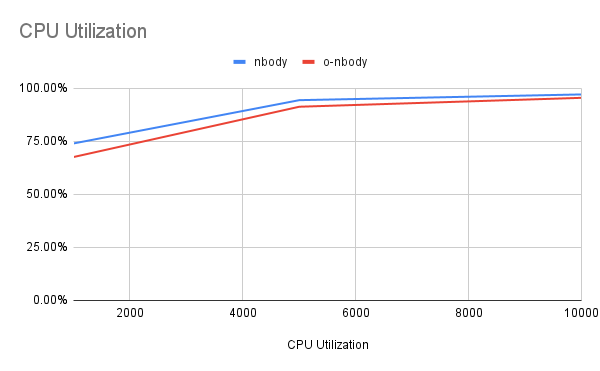
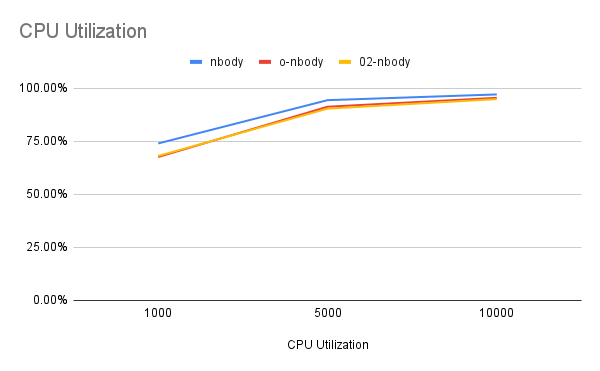
Added more information to performance.md

diff --git a/src/bodies.cpp b/src/bodies.cpp
@@ -71,6 +71,9 @@ void Bodies::updateVel(int n, double dt)
     vz[n] += 0.5 *( old_az[n] + az[n] ) * dt;
 }
 
+// an update over updateAcc that exploits the symmetry of the force calculation to reduce
+// the amount of arithmetic done
+
 void Bodies::updateAcc2(int n, double dt)
 {
 
@@ -103,6 +106,48 @@ void Bodies::updateAcc2(int n, double dt)
             ay[j] -= s_i * dy;
             az[j] -= s_i * dz;
         }
+    }
+}
+
+void Bodies::updateAcc3(int n, double dt) {
+    for(int i = 0; i < n; ++i){
+
+        double xi = x[i];
+        double yi = y[i];
+        double zi = z[i];
+
+        double mass_i = mass[i];
+
+        double aix = 0.0;
+        double aiy = 0.0;
+        double aiz = 0.0;
+
+        for(int j = i+1; j < n; ++j ){
+            double dx = x[j] - xi;
+            double dy = y[j] - yi;
+            double dz = z[j] - zi;
+
+            double r2 = dx*dx + dy*dy + dz*dz + eps2;
+            double inv_r = 1.0 / std::sqrt(r2);
+
+            double inv_r3 = inv_r * inv_r * inv_r;
+
+            double s_i = mass_i * inv_r3;
+            double s_j = mass[j] * inv_r3;
+
+            aix += s_j * dx;
+            aiy += s_j * dy;
+            aiz += s_j * dz;
+            
+            ax[j] -= s_i * dx;
+            ay[j] -= s_i * dy;
+            az[j] -= s_i * dz;
+        }
+        
+        // single write per i
+        ax[i] += aix;
+        ay[i] += aiy;
+        az[i] += aiz;
     }
 }
 
@@ -278,7 +323,7 @@ void Bodies::plummerInitializer(int n, double map_size, double dt, double q, dou
         vz[i] -= vz_avg;
     }
 
-    updateAcc2(n, dt);
+    updateAcc3(n, dt);
 }
 
 void Bodies::sphereInitializer(int n, double map_size, double dt, double q, double v0)

diff --git a/src/main.cpp b/src/main.cpp
@@ -52,7 +52,7 @@ void run_simulation(SimulationConfig config, std::vector<Snapshot>& snapshots){
         std::fill(b.ay.begin(), b.ay.end(), 0.0);
         std::fill(b.az.begin(), b.az.end(), 0.0);
 
-        b.updateAcc2(config.numParticles, dt);
+        b.updateAcc3(config.numParticles, dt);
 
         for(int i = 0; i < config.numParticles; i++){
             b.updateVel(i, dt);

diff --git a/src/bodies.h b/src/bodies.h
@@ -22,6 +22,7 @@ class Bodies
         void updateVel(int n, double dt);
 
         void updateAcc2(int n, double dt);
+        void updateAcc3(int n, double dt);
 
         void updateAccBH(int n, double dt, double map_size);
 

diff --git a/performance.md b/performance.md
@@ -186,7 +186,7 @@ Test 3: `nbody -n 10000 -i 2000`
        0.874018000 seconds sys
  -->
 
-## Naive implementation w/ Optimized force calculation
+## Naive implementation w/ Optimized force calculation (o-nbody)
 
 Brute force implementation, exploiting the symmetry in the force calculation:
 
@@ -340,13 +340,162 @@ Test 3: `nbody -n 10000 -i 2000`
 
 -->
 
+## Naive implementation w/ Optimized force calculation and less memory writes (02-nbody)
+
+Optimization to improve memory locality
+
+Test 1: `nbody -n 1000 -i 2000`
+- seconds elapsed: 5.301
+- seconds user: 3.511
+- seconds sys: 0.097
+- 97.63% in `updateAcc3`
+
+| Name                    | Measurement   |
+|-------------------------|---------------|
+| task-clock              | 3,608,965,156    (0.681 CPU utilized) |
+| context-switches        | 64           |
+| cpu-migrations          | 13       |
+| page-faults             | 40,185      |
+| instructions            | 37,820,728,665    |
+| cycles                  | 17,884,445,932  |
+| stalled-cycles-frontend | 306,070,798 (1.71%)   |
+| branches                | 2,128,289,515 |
+| branch-misses           | 12,918,480  (0.61%)  |
+| L1-dcache-loads         | 14,360,191,797  |
+| L1-dcache-load-misses   | 612,369,117 (4.26%)     |
+
+2.11 insn per cycle
+
+<!-- 
+ Performance counter stats for './nbody -n 1000 -i 2000 -l plummer':
+
+     3,608,965,156      task-clock                       #    0.681 CPUs utilized             
+                64      context-switches                 #   17.734 /sec                      
+                13      cpu-migrations                   #    3.602 /sec                      
+            40,185      page-faults                      #   11.135 K/sec                     
+    37,820,728,665      instructions                     #    2.11  insn per cycle            
+                                                  #    0.01  stalled cycles per insn     (71.39%)
+    17,884,445,932      cycles                           #    4.956 GHz                         (71.36%)
+       306,070,798      stalled-cycles-frontend          #    1.71% frontend cycles idle        (71.43%)
+     2,128,289,515      branches                         #  589.723 M/sec                       (71.48%)
+        12,918,480      branch-misses                    #    0.61% of all branches             (71.46%)
+    14,360,191,797      L1-dcache-loads                  #    3.979 G/sec                       (71.44%)
+       612,369,117      L1-dcache-load-misses            #    4.26% of all L1-dcache accesses   (71.43%)
+
+       5.300972542 seconds time elapsed
+
+       3.511560000 seconds user
+       0.097857000 seconds sys
+
+-->
+
+Test 2: `nbody -n 5000 -i 2000`
+- seconds elapsed: 96.298
+- seconds user: 86.652
+- seconds sys: 0.433
+- 99.02% in `updateAcc3`
+
+| Name                    | Measurement   |
+|-------------------------|---------------|
+| task-clock              | 87,086,947,765   (0.904 CPU utilized) |
+| context-switches        | 1,257           |
+| cpu-migrations          | 287       |
+| page-faults             | 261,777     |
+| instructions            | 930,314,182,054   |
+| cycles                  | 436,593,930,682 |
+| stalled-cycles-frontend | 2,396,424,250 (0.55%)   |
+| branches                | 50,839,152,080 |
+| branch-misses           | 88,912,727   (0.17%)  |
+| L1-dcache-loads         | 352,515,995,818 |
+| L1-dcache-load-misses   | 22,090,166,749  (6.27%)     |
+
+2.13 insn per cycle
+
+<!-- 
+ Performance counter stats for './nbody -n 5000 -i 2000 -l plummer':
+
+    87,086,947,765      task-clock                       #    0.904 CPUs utilized             
+             1,257      context-switches                 #   14.434 /sec                      
+               287      cpu-migrations                   #    3.296 /sec                      
+           261,777      page-faults                      #    3.006 K/sec                     
+   930,314,182,054      instructions                     #    2.13  insn per cycle            
+                                                  #    0.00  stalled cycles per insn     (71.43%)
+   436,593,930,682      cycles                           #    5.013 GHz                         (71.43%)
+     2,396,424,250      stalled-cycles-frontend          #    0.55% frontend cycles idle        (71.43%)
+    50,839,152,080      branches                         #  583.775 M/sec                       (71.43%)
+        88,912,727      branch-misses                    #    0.17% of all branches             (71.43%)
+   352,515,995,818      L1-dcache-loads                  #    4.048 G/sec                       (71.42%)
+    22,090,166,749      L1-dcache-load-misses            #    6.27% of all L1-dcache accesses   (71.43%)
+
+      96.298073158 seconds time elapsed
+
+      86.652458000 seconds user
+       0.433855000 seconds sys
+ -->
+
+Test 3: `nbody -n 10000 -i 2000`
+- seconds elapsed: 365.180
+- seconds user: 345.593
+- seconds sys: 0.869
+- 99.40% in `updateAcc3`
+
+| Name                    | Measurement   |
+|-------------------------|---------------|
+| task-clock              | 346,467,229,874    (0.949 CPU utilized) |
+| context-switches        | 4,816           |
+| cpu-migrations          | 1,101       |
+| page-faults             | 523,399     |
+| instructions            | 3,714,796,762,225   |
+| cycles                  | 1,739,149,617,873  |
+| stalled-cycles-frontend | 7,153,172,588 (0.41%)   |
+| branches                | 202,311,458,920|
+| branch-misses           | 248,027,993    (0.12%)  |
+| L1-dcache-loads         | 1,406,596,023,341 |
+| L1-dcache-load-misses   | 88,457,000,521 (6.29%)     |
+
+2.14 insn per cycle
+
+
+<!--  1,706,713,424,896 / 1,406,596,023,341 vs 88,829,809,900  / 88,457,000,521 -->
+<!-- 
+ Performance counter stats for './nbody -n 10000 -i 2000 -l plummer':
+
+   346,467,229,874      task-clock                       #    0.949 CPUs utilized             
+             4,816      context-switches                 #   13.900 /sec                      
+             1,101      cpu-migrations                   #    3.178 /sec                      
+           523,399      page-faults                      #    1.511 K/sec                     
+ 3,714,796,762,225      instructions                     #    2.14  insn per cycle            
+                                                  #    0.00  stalled cycles per insn     (71.43%)
+ 1,739,149,617,873      cycles                           #    5.020 GHz                         (71.43%)
+     7,153,172,588      stalled-cycles-frontend          #    0.41% frontend cycles idle        (71.43%)
+   202,311,458,920      branches                         #  583.927 M/sec                       (71.43%)
+       248,027,993      branch-misses                    #    0.12% of all branches             (71.43%)
+ 1,406,596,023,341      L1-dcache-loads                  #    4.060 G/sec                       (71.43%)
+    88,457,000,521      L1-dcache-load-misses            #    6.29% of all L1-dcache accesses   (71.43%)
+
+     365.180530198 seconds time elapsed
+
+     345.593602000 seconds user
+       0.869071000 seconds sys
+-->
+
 ## Barnes-Hut Implementation
+
 
 
 # Aggregation
 
-![](./performance_info/CPU%20Utilization.png)
+Comparing between the base n-body simulation and with the optimized force calculation. The Instructions are reduced, from 6,268,130,645 to 4,031,250,441 at 1000 particles. The number of instructions increases at the same rate meaning that the optimized calculation results in fewer instructions.
+
+However, the downside of this optimization method is that it increases the percentage of stalled cycles, branch misses, and L1 cache misses. The decrease in instructions offsets this difference and leads to improved performance. This leads to an improvement in performance, where the performance improvement factor increases with number of particles. 
+
+This increase in stalled cycles, branch misses, and L1 cache misses is a result of more scattered writes, more complex control flow, worse memory locality and harder vectorization. 
+
+This observation lead us to implement o2-nbody, which reduced the number of memory access. This may lead to a higher percentage of cache misses, but the number of misses remains the same. This leads to a small but noticeable improvement in performance.
+
+![](./performance_info/Seconds%20Elapsed.png)
 ![](./performance_info/Instructions.png)
+![](./performance_info/CPU%20Utilization.png)
 ![](./performance_info/Stalled%20Cycles.png)
 ![](./performance_info/Branch%20Misses.png)
 ![](./performance_info/L1%20Cache%20Misses.png)
